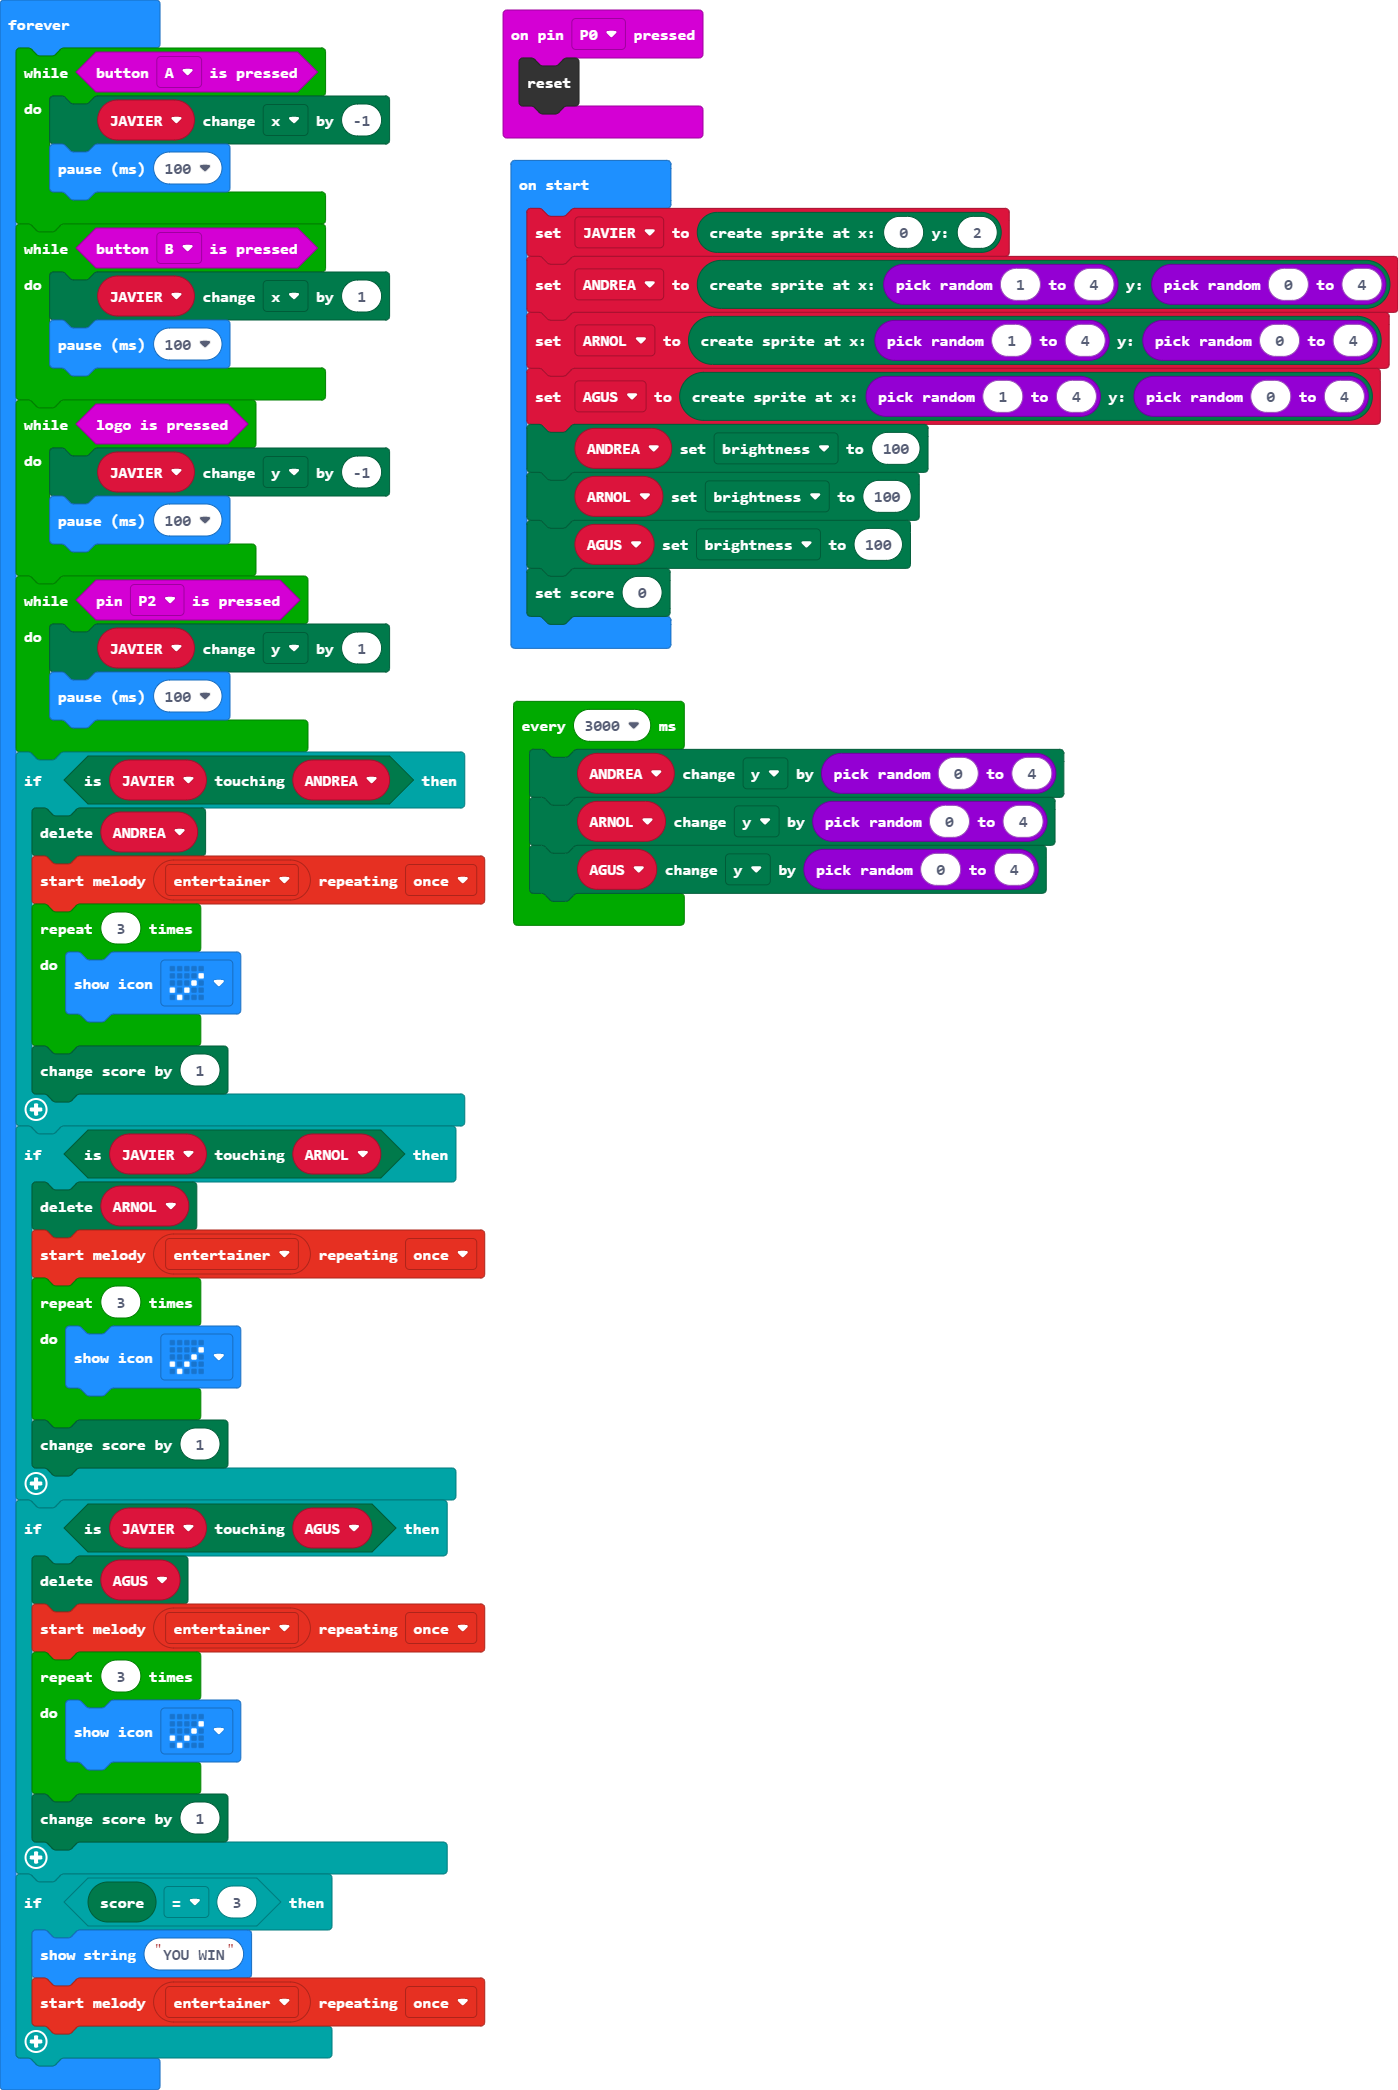
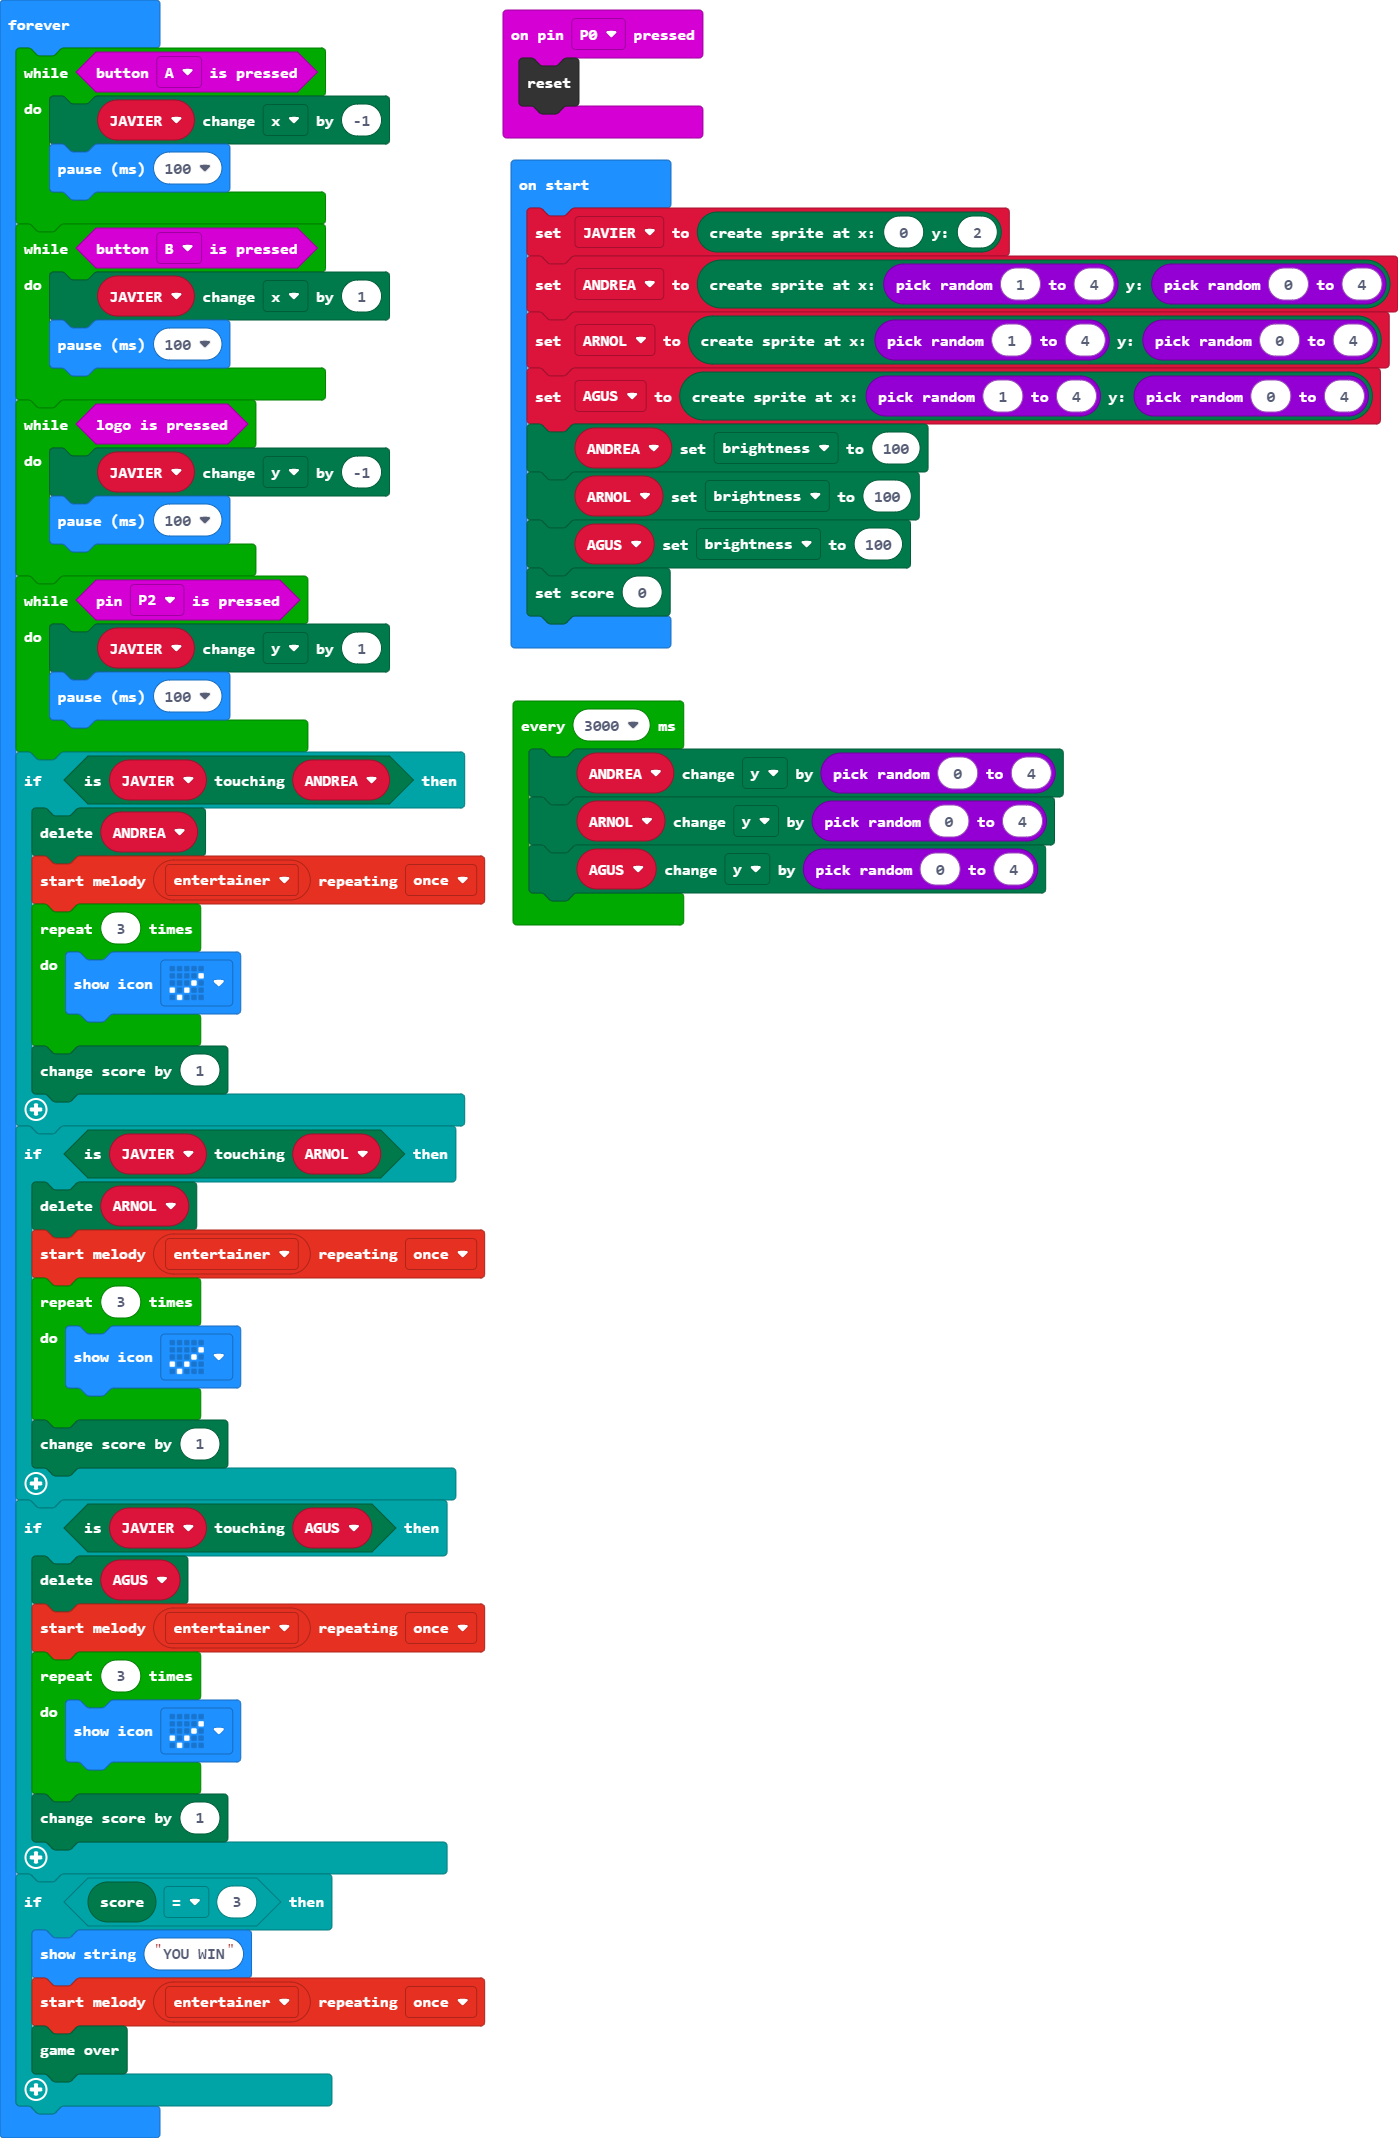
Update main.blocks, main.ts

Changed region(s): [[0.0, 0.0, 1.0, 0.9952]]

diff --git a/main.ts b/main.ts
@@ -53,6 +53,7 @@ basic.forever(function () {
     if (game.score() == 3) {
         basic.showString("YOU WIN")
         music.startMelody(music.builtInMelody(Melodies.Entertainer), MelodyOptions.Once)
+        game.gameOver()
     }
 })
 loops.everyInterval(3000, function () {
